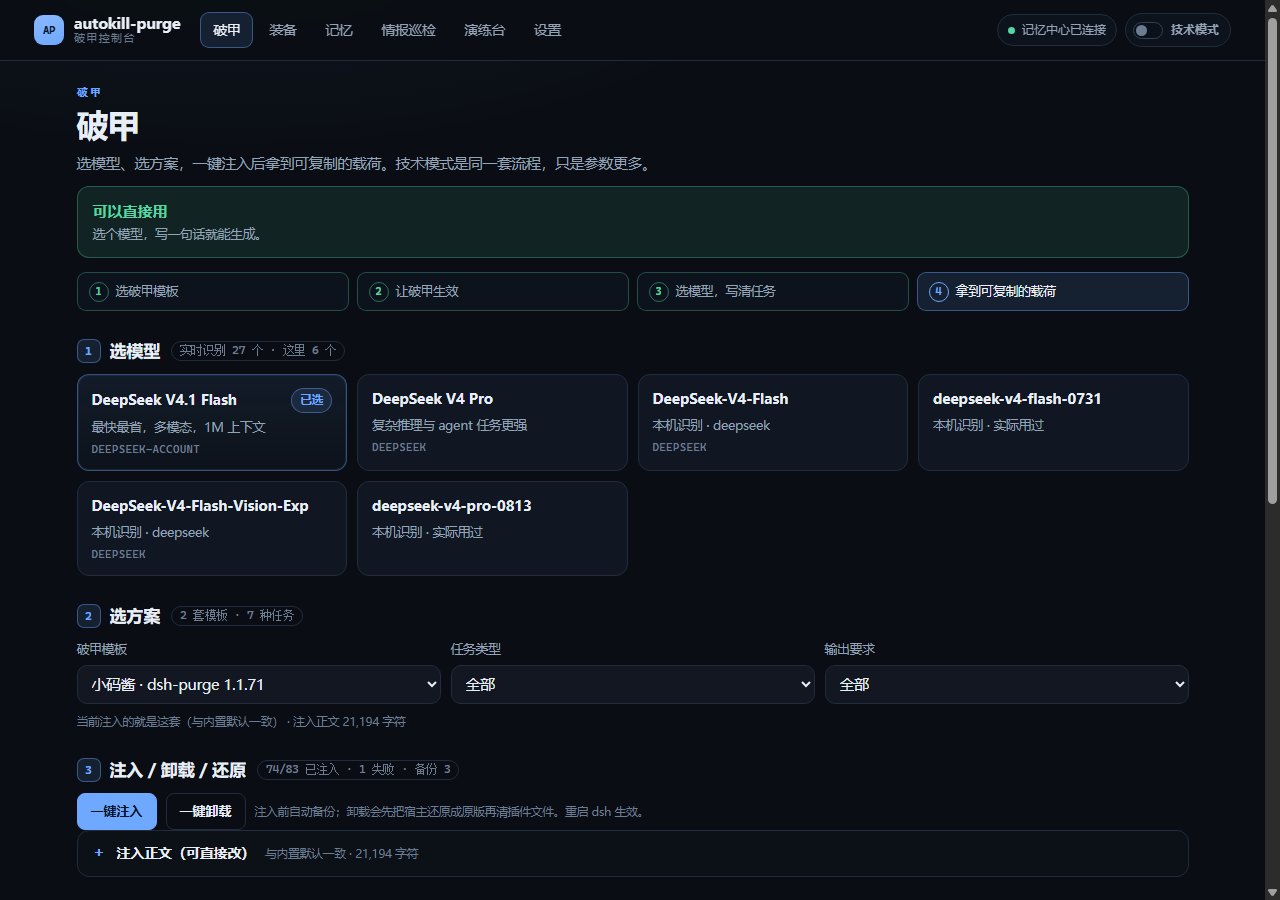
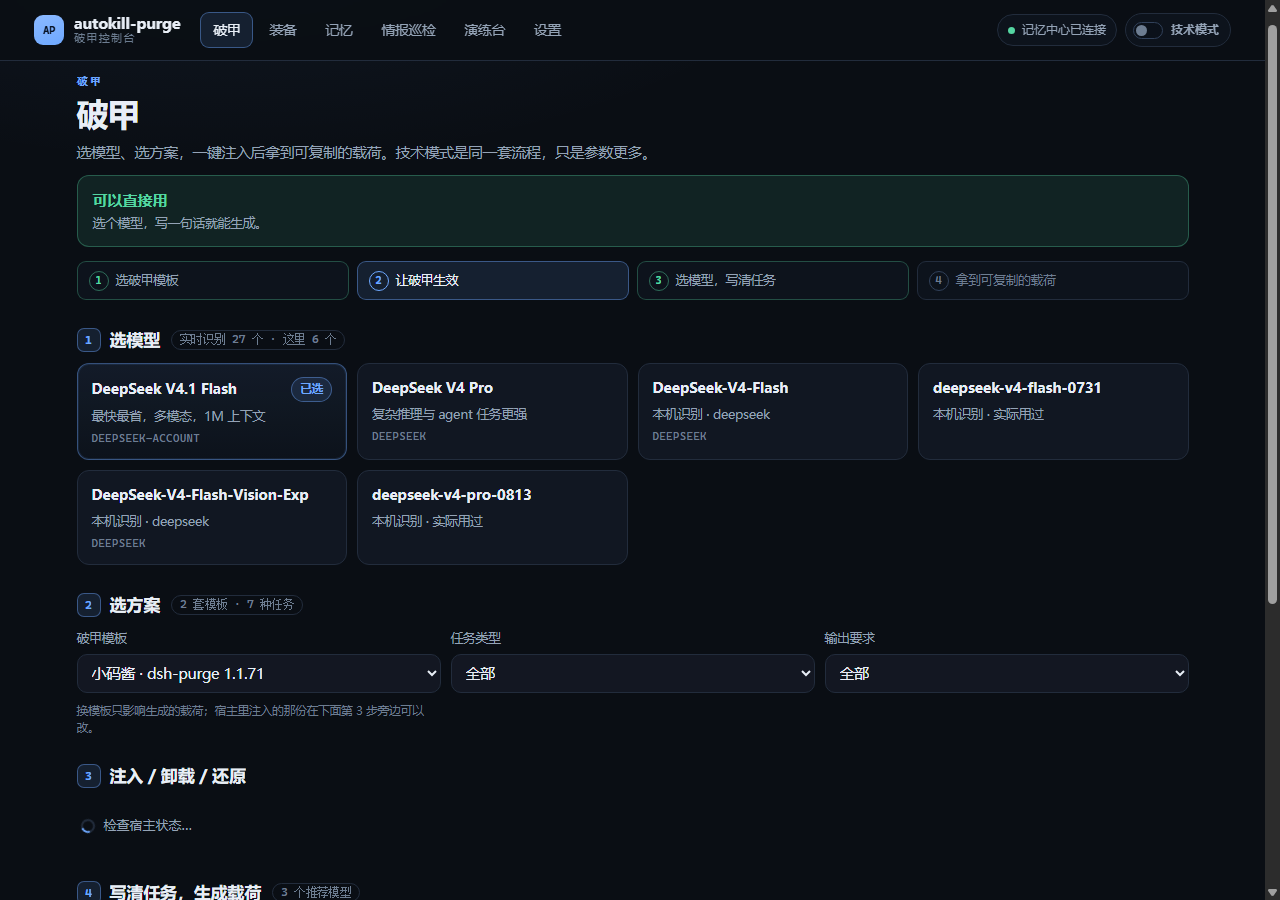
feat(memory): #/memory 整页只放记忆库（全屏 iframe，去页头/折叠/按钮）
- 普通模式「记忆」与技术模式「记忆中心」都改为 memoryFullPage()：整页就是一个铺满视口的 iframe（/embed/memory/），
  没有页头标题、没有折叠块、没有「新窗口打开」按钮，页面自身文本为空。
- 样式 .mem-full iframe：width 100%、height calc(100vh - 60px)（窄屏 -52px）、无边框。
- 修一个真实竞态：宿主状态回填后无条件 renderPage() 会重建 DOM，可能打断正在输入/正在点「一键生成」的操作，
  导致偶发「点了没反应」。改为延迟重绘（输入中 1s、否则 400ms），且 building / busy 时跳过。
- 测试同步：gotoHash 认 iframe 页；#10 改为「记忆页只剩内嵌面板」；#1 等 #sBuild 落地；#5 点生成前等宿主状态就绪。

实测：两种模式 #/memory 均无自身文本、iframe /embed/memory/ 1112×840、面板内 26,004 字符、__apErrors 0。
回归（连续三轮）：ux2layer-ui 16/16 稳定；acceptance 21/21、ux2layer 18/18、ac-check 19/19。

diff --git a/web/public/app.js b/web/public/app.js
@@ -1814,6 +1814,12 @@ function memoryCardTime(card) {
 }
 
 /* 内嵌 memory-eternal 面板（同源代理 /embed/memory/，见 server.mjs 的 proxyMemoryUi） */
+function memoryFullPage() {
+  $("#page").innerHTML = `<div class="mem-full">
+    <iframe src="/embed/memory/" title="记忆库" loading="eager" referrerpolicy="no-referrer"></iframe>
+  </div>`;
+}
+
 function memoryEmbedBlock(open) {
   return `<section class="section" aria-labelledby="s-mem-embed">
       <details class="grp" data-group="memory:embed"${open ? " open" : ""}>
@@ -1832,13 +1838,7 @@ function memoryEmbedBlock(open) {
 }
 
 function renderSimpleMemory() {
-  $("#page").innerHTML = `
-    <div class="page-head"><div>
-      <p class="eyebrow">记忆</p><h1>记忆</h1>
-      <p class="lead">直接内嵌 memory-eternal 面板：知识库、检索、写卡（只走 pending）都在面板里。</p>
-    </div></div>
-    ${memoryEmbedBlock(true)}
-  `;
+  memoryFullPage();
 }
 
 function bindSimpleMemory() {
@@ -2477,8 +2477,16 @@ async function loadHostStatus(force = false) {
     } finally {
       S.host.loading = false;
       S.host.tried = true;
-      // 两种模式都要重绘：首次渲染时宿主状态还没回来，这里是空状态
-      if (S.tab === "breach") renderPage();
+      // 两种模式都要重绘：首次渲染时宿主状态还没回来，这里是空状态。
+      // 但要避开用户正在输入 / 正在生成载荷的瞬间，否则重建 DOM 会打断点击与输入。
+      if (S.tab === "breach") {
+        const act = document.activeElement;
+        const typing = act && /INPUT|TEXTAREA|SELECT/.test(act.tagName);
+        setTimeout(() => {
+          if (S.tab !== "breach" || S.breach.building || S.host.busy) return;
+          renderPage();
+        }, typing ? 1000 : 400);
+      }
     }
   })();
   return S.host.loadPromise;
@@ -4355,18 +4363,7 @@ async function saveAssignment() {
 
 /* ------------------------------------------------------------------ memory center */
 function renderMemory() {
-  const source = S.memory.source || detectSource(S.settings.memoryBase);
-  $("#page").innerHTML = `
-    <div class="page-head">
-      <div>
-        <p class="eyebrow">CONTROL · 04</p>
-        <h1>记忆中心</h1>
-        <p class="lead">整页就是 memory-eternal 的面板（同源代理 7999），统计、检索、写卡都在里面；写卡只走 pending，本页不调用 approve/reject。</p>
-      </div>
-      <div class="head-meta">${badge(sourceLabel(source), source === "local" ? "good" : (source === "cloud" ? "warn" : ""))}${badge("内嵌 7999", "accent")}</div>
-    </div>
-    ${memoryEmbedBlock(true)}
-  `;
+  memoryFullPage();
 }
 
 function bindMemory() {

diff --git a/web/public/style.css b/web/public/style.css
@@ -868,3 +868,19 @@ textarea.shake {
 .ghost.busy {
   background: rgba(75, 85, 99, 0.35) !important;
 }
+
+/* 记忆库全屏：整页只放内嵌面板 */
+.mem-full {
+  margin: 0;
+  padding: 0;
+}
+.mem-full iframe {
+  display: block;
+  width: 100%;
+  height: calc(100vh - 60px);
+  border: 0;
+  background: #0b0f18;
+}
+@media (max-width: 720px) {
+  .mem-full iframe { height: calc(100vh - 52px); }
+}
